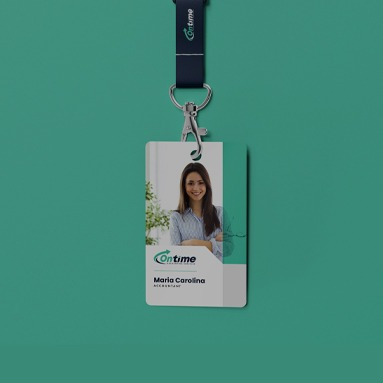
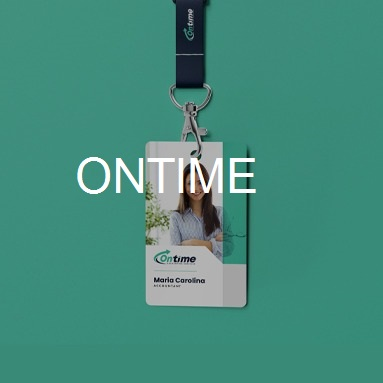
hover projetos

Changed region(s): [[0.201, 0.4021, 0.6893, 0.517]]

diff --git a/index.html b/index.html
@@ -122,7 +122,6 @@
                     </figure>
                     <figure class="d-none">
                         <img src="./content/img/index/crachá2.jpeg" width="100%" alt="imagem-1">
-                        <span>ONTIME</span>
                     </figure>
                 </a>
                 <a href="./pages/ontime.html"><figure><img src="./content/img/index/cracha.jpeg" width="100%" alt="imagem-2"></figure></a>

diff --git a/content/css/index.css b/content/css/index.css
@@ -62,7 +62,7 @@
 .d-none span{
     position: absolute;
     left: 160px;
-    bottom: -500px;
+    bottom: -500px; 
     color: white;
     font-size: 50px;
 }
